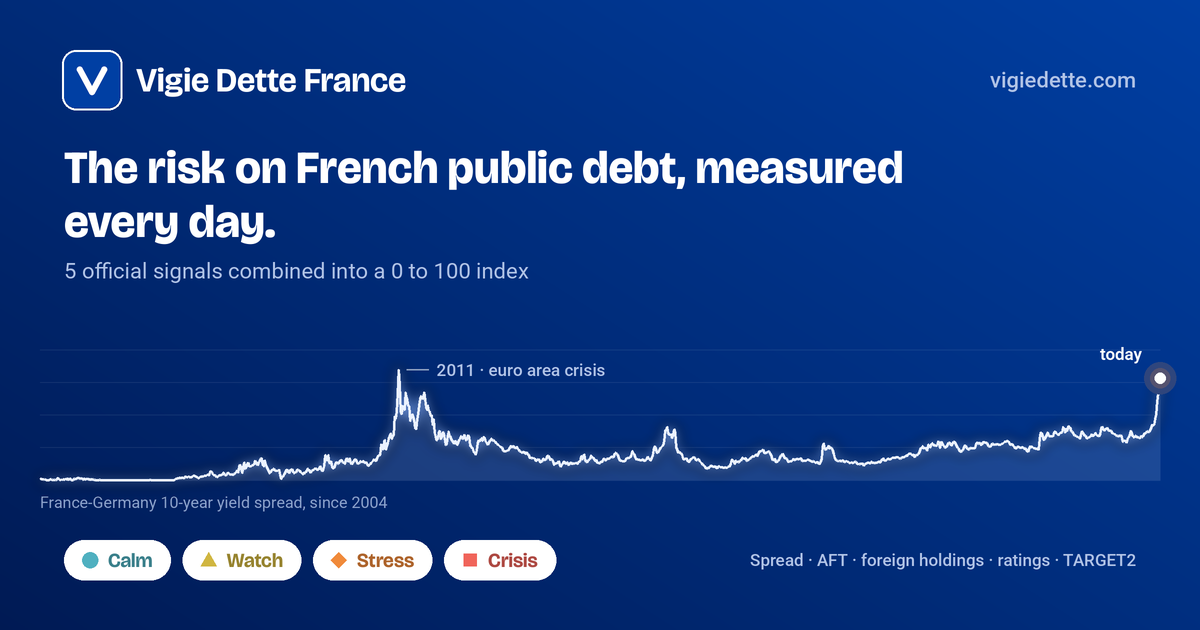
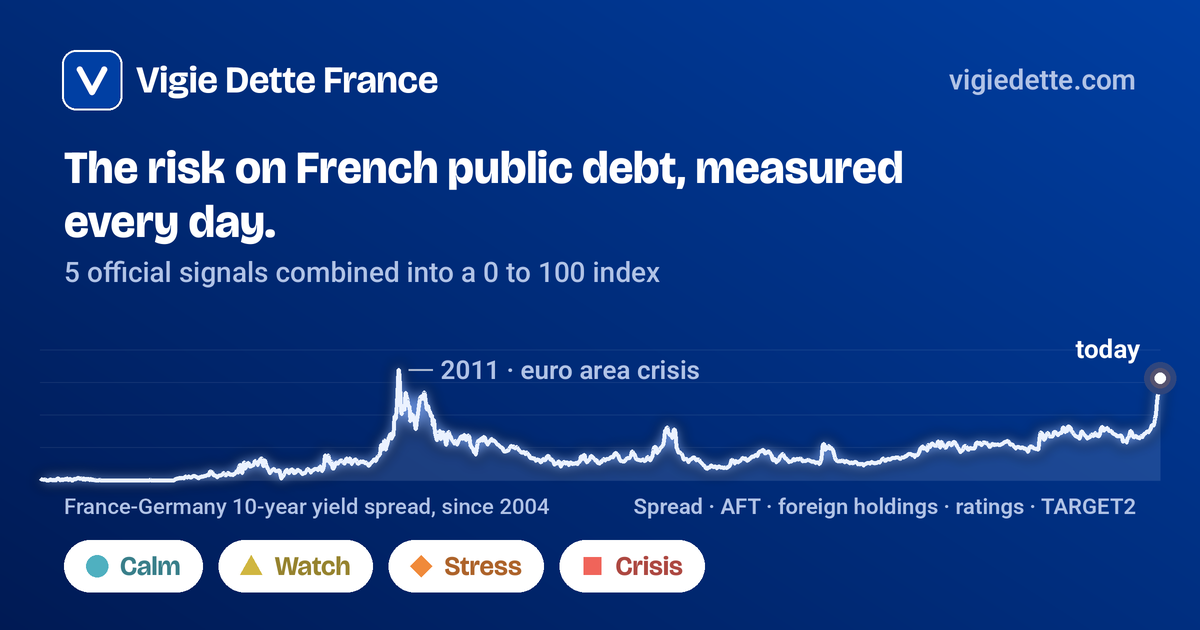
Image de partage lisible en aperçu LinkedIn, adresse par empreinte
LinkedIn réduit l'image à 480 px : petits textes grossis, courbe épaissie,
pastilles des niveaux agrandies, liste des signaux remontée sur la ligne de
la légende. L'adresse og:image porte l'empreinte de l'image au lieu de la
date, pour que LinkedIn ne resserve pas une ancienne version ; la collecte
dessine donc l'image avant les pages.

diff --git a/adjudications-oat/index.html b/adjudications-oat/index.html
@@ -21,7 +21,7 @@
 <meta property="og:url" data-i18n-attr="content:url" content="https://vigiedette.com/adjudications-oat/">
 <meta property="og:title" data-i18n-attr="content:titre" content="Adjudications d’OAT à 10 ans, taux de couverture · Vigie Dette France">
 <meta property="og:description" data-instantane="resume" content="À la dernière adjudication d’OAT à 10 ans, les investisseurs ont demandé 2,00 fois le montant vendu, niveau vigilance.">
-<meta property="og:image" data-instantane="image" content="https://vigiedette.com/partage-fr.png?v=2026-10-29">
+<meta property="og:image" data-instantane="image" content="https://vigiedette.com/partage-fr.png?v=924e612e">
 <meta property="og:image:width" content="1200">
 <meta property="og:image:height" content="630">
 <meta property="og:image:alt" content="Vigie Dette France : le risque de la dette publique française, mesuré chaque jour, avec l’écart de taux France-Allemagne à 10 ans depuis 2004" data-i18n-attr="content:image.alt">

diff --git a/spread-france-allemagne/index.html b/spread-france-allemagne/index.html
@@ -21,7 +21,7 @@
 <meta property="og:url" data-i18n-attr="content:url" content="https://vigiedette.com/spread-france-allemagne/">
 <meta property="og:title" data-i18n-attr="content:titre" content="Spread France-Allemagne aujourd’hui, écart OAT-Bund à 10 ans · Vigie Dette France">
 <meta property="og:description" data-instantane="resume" content="L’écart entre les taux à 10 ans de la France et de l’Allemagne est de 150 pb, niveau crise.">
-<meta property="og:image" data-instantane="image" content="https://vigiedette.com/partage-fr.png?v=2026-10-29">
+<meta property="og:image" data-instantane="image" content="https://vigiedette.com/partage-fr.png?v=924e612e">
 <meta property="og:image:width" content="1200">
 <meta property="og:image:height" content="630">
 <meta property="og:image:alt" content="Vigie Dette France : le risque de la dette publique française, mesuré chaque jour, avec l’écart de taux France-Allemagne à 10 ans depuis 2004" data-i18n-attr="content:image.alt">

diff --git a/dette-detenue-non-residents/index.html b/dette-detenue-non-residents/index.html
@@ -21,7 +21,7 @@
 <meta property="og:url" data-i18n-attr="content:url" content="https://vigiedette.com/dette-detenue-non-residents/">
 <meta property="og:title" data-i18n-attr="content:titre" content="Dette française détenue par les non-résidents · Vigie Dette France">
 <meta property="og:description" data-instantane="resume" content="Les investisseurs étrangers détiennent 59,7 % de la dette de l’État, niveau tension.">
-<meta property="og:image" data-instantane="image" content="https://vigiedette.com/partage-fr.png?v=2026-10-29">
+<meta property="og:image" data-instantane="image" content="https://vigiedette.com/partage-fr.png?v=924e612e">
 <meta property="og:image:width" content="1200">
 <meta property="og:image:height" content="630">
 <meta property="og:image:alt" content="Vigie Dette France : le risque de la dette publique française, mesuré chaque jour, avec l’écart de taux France-Allemagne à 10 ans depuis 2004" data-i18n-attr="content:image.alt">

diff --git a/target2-banque-de-france/index.html b/target2-banque-de-france/index.html
@@ -21,7 +21,7 @@
 <meta property="og:url" data-i18n-attr="content:url" content="https://vigiedette.com/target2-banque-de-france/">
 <meta property="og:title" data-i18n-attr="content:titre" content="Solde TARGET2 de la Banque de France · Vigie Dette France">
 <meta property="og:description" data-instantane="resume" content="Le solde TARGET2 de la Banque de France représente -3,1 % du bilan de l’Eurosystème, niveau tension.">
-<meta property="og:image" data-instantane="image" content="https://vigiedette.com/partage-fr.png?v=2026-10-29">
+<meta property="og:image" data-instantane="image" content="https://vigiedette.com/partage-fr.png?v=924e612e">
 <meta property="og:image:width" content="1200">
 <meta property="og:image:height" content="630">
 <meta property="og:image:alt" content="Vigie Dette France : le risque de la dette publique française, mesuré chaque jour, avec l’écart de taux France-Allemagne à 10 ans depuis 2004" data-i18n-attr="content:image.alt">

diff --git a/index.html b/index.html
@@ -21,7 +21,7 @@
 <meta property="og:url" content="https://vigiedette.com/" data-i18n-attr="content:url">
 <meta property="og:title" content="Vigie Dette France · Le risque de la dette publique, chaque jour" data-i18n-attr="content:titre">
 <meta property="og:description" data-instantane="resume" content="Indice Vigie 64/100, tension. La dette française est sous tension. Le reste des marchés financiers reste calme.">
-<meta property="og:image" data-instantane="image" content="https://vigiedette.com/partage-fr.png?v=2026-10-29">
+<meta property="og:image" data-instantane="image" content="https://vigiedette.com/partage-fr.png?v=924e612e">
 <meta property="og:image:width" content="1200">
 <meta property="og:image:height" content="630">
 <meta property="og:image:alt" content="Vigie Dette France : le risque de la dette publique française, mesuré chaque jour, avec l’écart de taux France-Allemagne à 10 ans depuis 2004" data-i18n-attr="content:image.alt">

diff --git a/en/france-germany-spread/index.html b/en/france-germany-spread/index.html
@@ -21,7 +21,7 @@
 <meta property="og:url" data-i18n-attr="content:url" content="https://vigiedette.com/en/france-germany-spread/">
 <meta property="og:title" data-i18n-attr="content:titre" content="France-Germany spread today, 10-year OAT-Bund gap · Vigie Dette France">
 <meta property="og:description" data-instantane="resume" content="The gap between France’s and Germany’s 10-year yields is 150 bp, crisis level.">
-<meta property="og:image" data-instantane="image" content="https://vigiedette.com/partage-en.png?v=2026-10-29">
+<meta property="og:image" data-instantane="image" content="https://vigiedette.com/partage-en.png?v=63ec7e9d">
 <meta property="og:image:width" content="1200">
 <meta property="og:image:height" content="630">
 <meta property="og:image:alt" content="Vigie Dette France: the risk on French public debt, measured every day, with the France-Germany 10-year yield spread since 2004" data-i18n-attr="content:image.alt">

diff --git a/en/target2-balance/index.html b/en/target2-balance/index.html
@@ -21,7 +21,7 @@
 <meta property="og:url" data-i18n-attr="content:url" content="https://vigiedette.com/en/target2-balance/">
 <meta property="og:title" data-i18n-attr="content:titre" content="Banque de France TARGET2 balance · Vigie Dette France">
 <meta property="og:description" data-instantane="resume" content="The Banque de France TARGET2 balance stands at -3.1% of the Eurosystem balance sheet, stress level.">
-<meta property="og:image" data-instantane="image" content="https://vigiedette.com/partage-en.png?v=2026-10-29">
+<meta property="og:image" data-instantane="image" content="https://vigiedette.com/partage-en.png?v=63ec7e9d">
 <meta property="og:image:width" content="1200">
 <meta property="og:image:height" content="630">
 <meta property="og:image:alt" content="Vigie Dette France: the risk on French public debt, measured every day, with the France-Germany 10-year yield spread since 2004" data-i18n-attr="content:image.alt">

diff --git a/notation-france/index.html b/notation-france/index.html
@@ -21,7 +21,7 @@
 <meta property="og:url" data-i18n-attr="content:url" content="https://vigiedette.com/notation-france/">
 <meta property="og:title" data-i18n-attr="content:titre" content="Note de la France par S&amp;P, Moody’s et Fitch · Vigie Dette France">
 <meta property="og:description" data-instantane="resume" content="La note la plus basse de la France est A+, niveau tension.">
-<meta property="og:image" data-instantane="image" content="https://vigiedette.com/partage-fr.png?v=2026-10-29">
+<meta property="og:image" data-instantane="image" content="https://vigiedette.com/partage-fr.png?v=924e612e">
 <meta property="og:image:width" content="1200">
 <meta property="og:image:height" content="630">
 <meta property="og:image:alt" content="Vigie Dette France : le risque de la dette publique française, mesuré chaque jour, avec l’écart de taux France-Allemagne à 10 ans depuis 2004" data-i18n-attr="content:image.alt">

diff --git a/en/index.html b/en/index.html
@@ -21,7 +21,7 @@
 <meta property="og:url" content="https://vigiedette.com/en/" data-i18n-attr="content:url">
 <meta property="og:title" content="Vigie Dette France · French public debt risk, every day" data-i18n-attr="content:titre">
 <meta property="og:description" data-instantane="resume" content="Vigie Index 64/100, stress. French debt is under stress. The rest of the financial markets remain calm.">
-<meta property="og:image" data-instantane="image" content="https://vigiedette.com/partage-en.png?v=2026-10-29">
+<meta property="og:image" data-instantane="image" content="https://vigiedette.com/partage-en.png?v=63ec7e9d">
 <meta property="og:image:width" content="1200">
 <meta property="og:image:height" content="630">
 <meta property="og:image:alt" content="Vigie Dette France: the risk on French public debt, measured every day, with the France-Germany 10-year yield spread since 2004" data-i18n-attr="content:image.alt">

diff --git a/en/oat-auctions/index.html b/en/oat-auctions/index.html
@@ -21,7 +21,7 @@
 <meta property="og:url" data-i18n-attr="content:url" content="https://vigiedette.com/en/oat-auctions/">
 <meta property="og:title" data-i18n-attr="content:titre" content="10-year OAT auctions, cover ratio · Vigie Dette France">
 <meta property="og:description" data-instantane="resume" content="At the latest 10-year OAT auction, investors bid 2.00 times the amount sold, watch level.">
-<meta property="og:image" data-instantane="image" content="https://vigiedette.com/partage-en.png?v=2026-10-29">
+<meta property="og:image" data-instantane="image" content="https://vigiedette.com/partage-en.png?v=63ec7e9d">
 <meta property="og:image:width" content="1200">
 <meta property="og:image:height" content="630">
 <meta property="og:image:alt" content="Vigie Dette France: the risk on French public debt, measured every day, with the France-Germany 10-year yield spread since 2004" data-i18n-attr="content:image.alt">

diff --git a/en/france-credit-rating/index.html b/en/france-credit-rating/index.html
@@ -21,7 +21,7 @@
 <meta property="og:url" data-i18n-attr="content:url" content="https://vigiedette.com/en/france-credit-rating/">
 <meta property="og:title" data-i18n-attr="content:titre" content="France’s credit rating by S&amp;P, Moody’s and Fitch · Vigie Dette France">
 <meta property="og:description" data-instantane="resume" content="France’s lowest credit rating is A+, stress level.">
-<meta property="og:image" data-instantane="image" content="https://vigiedette.com/partage-en.png?v=2026-10-29">
+<meta property="og:image" data-instantane="image" content="https://vigiedette.com/partage-en.png?v=63ec7e9d">
 <meta property="og:image:width" content="1200">
 <meta property="og:image:height" content="630">
 <meta property="og:image:alt" content="Vigie Dette France: the risk on French public debt, measured every day, with the France-Germany 10-year yield spread since 2004" data-i18n-attr="content:image.alt">

diff --git a/en/foreign-holdings/index.html b/en/foreign-holdings/index.html
@@ -21,7 +21,7 @@
 <meta property="og:url" data-i18n-attr="content:url" content="https://vigiedette.com/en/foreign-holdings/">
 <meta property="og:title" data-i18n-attr="content:titre" content="French debt held by foreign investors · Vigie Dette France">
 <meta property="og:description" data-instantane="resume" content="Foreign investors hold 59.7% of French State debt, stress level.">
-<meta property="og:image" data-instantane="image" content="https://vigiedette.com/partage-en.png?v=2026-10-29">
+<meta property="og:image" data-instantane="image" content="https://vigiedette.com/partage-en.png?v=63ec7e9d">
 <meta property="og:image:width" content="1200">
 <meta property="og:image:height" content="630">
 <meta property="og:image:alt" content="Vigie Dette France: the risk on French public debt, measured every day, with the France-Germany 10-year yield spread since 2004" data-i18n-attr="content:image.alt">
